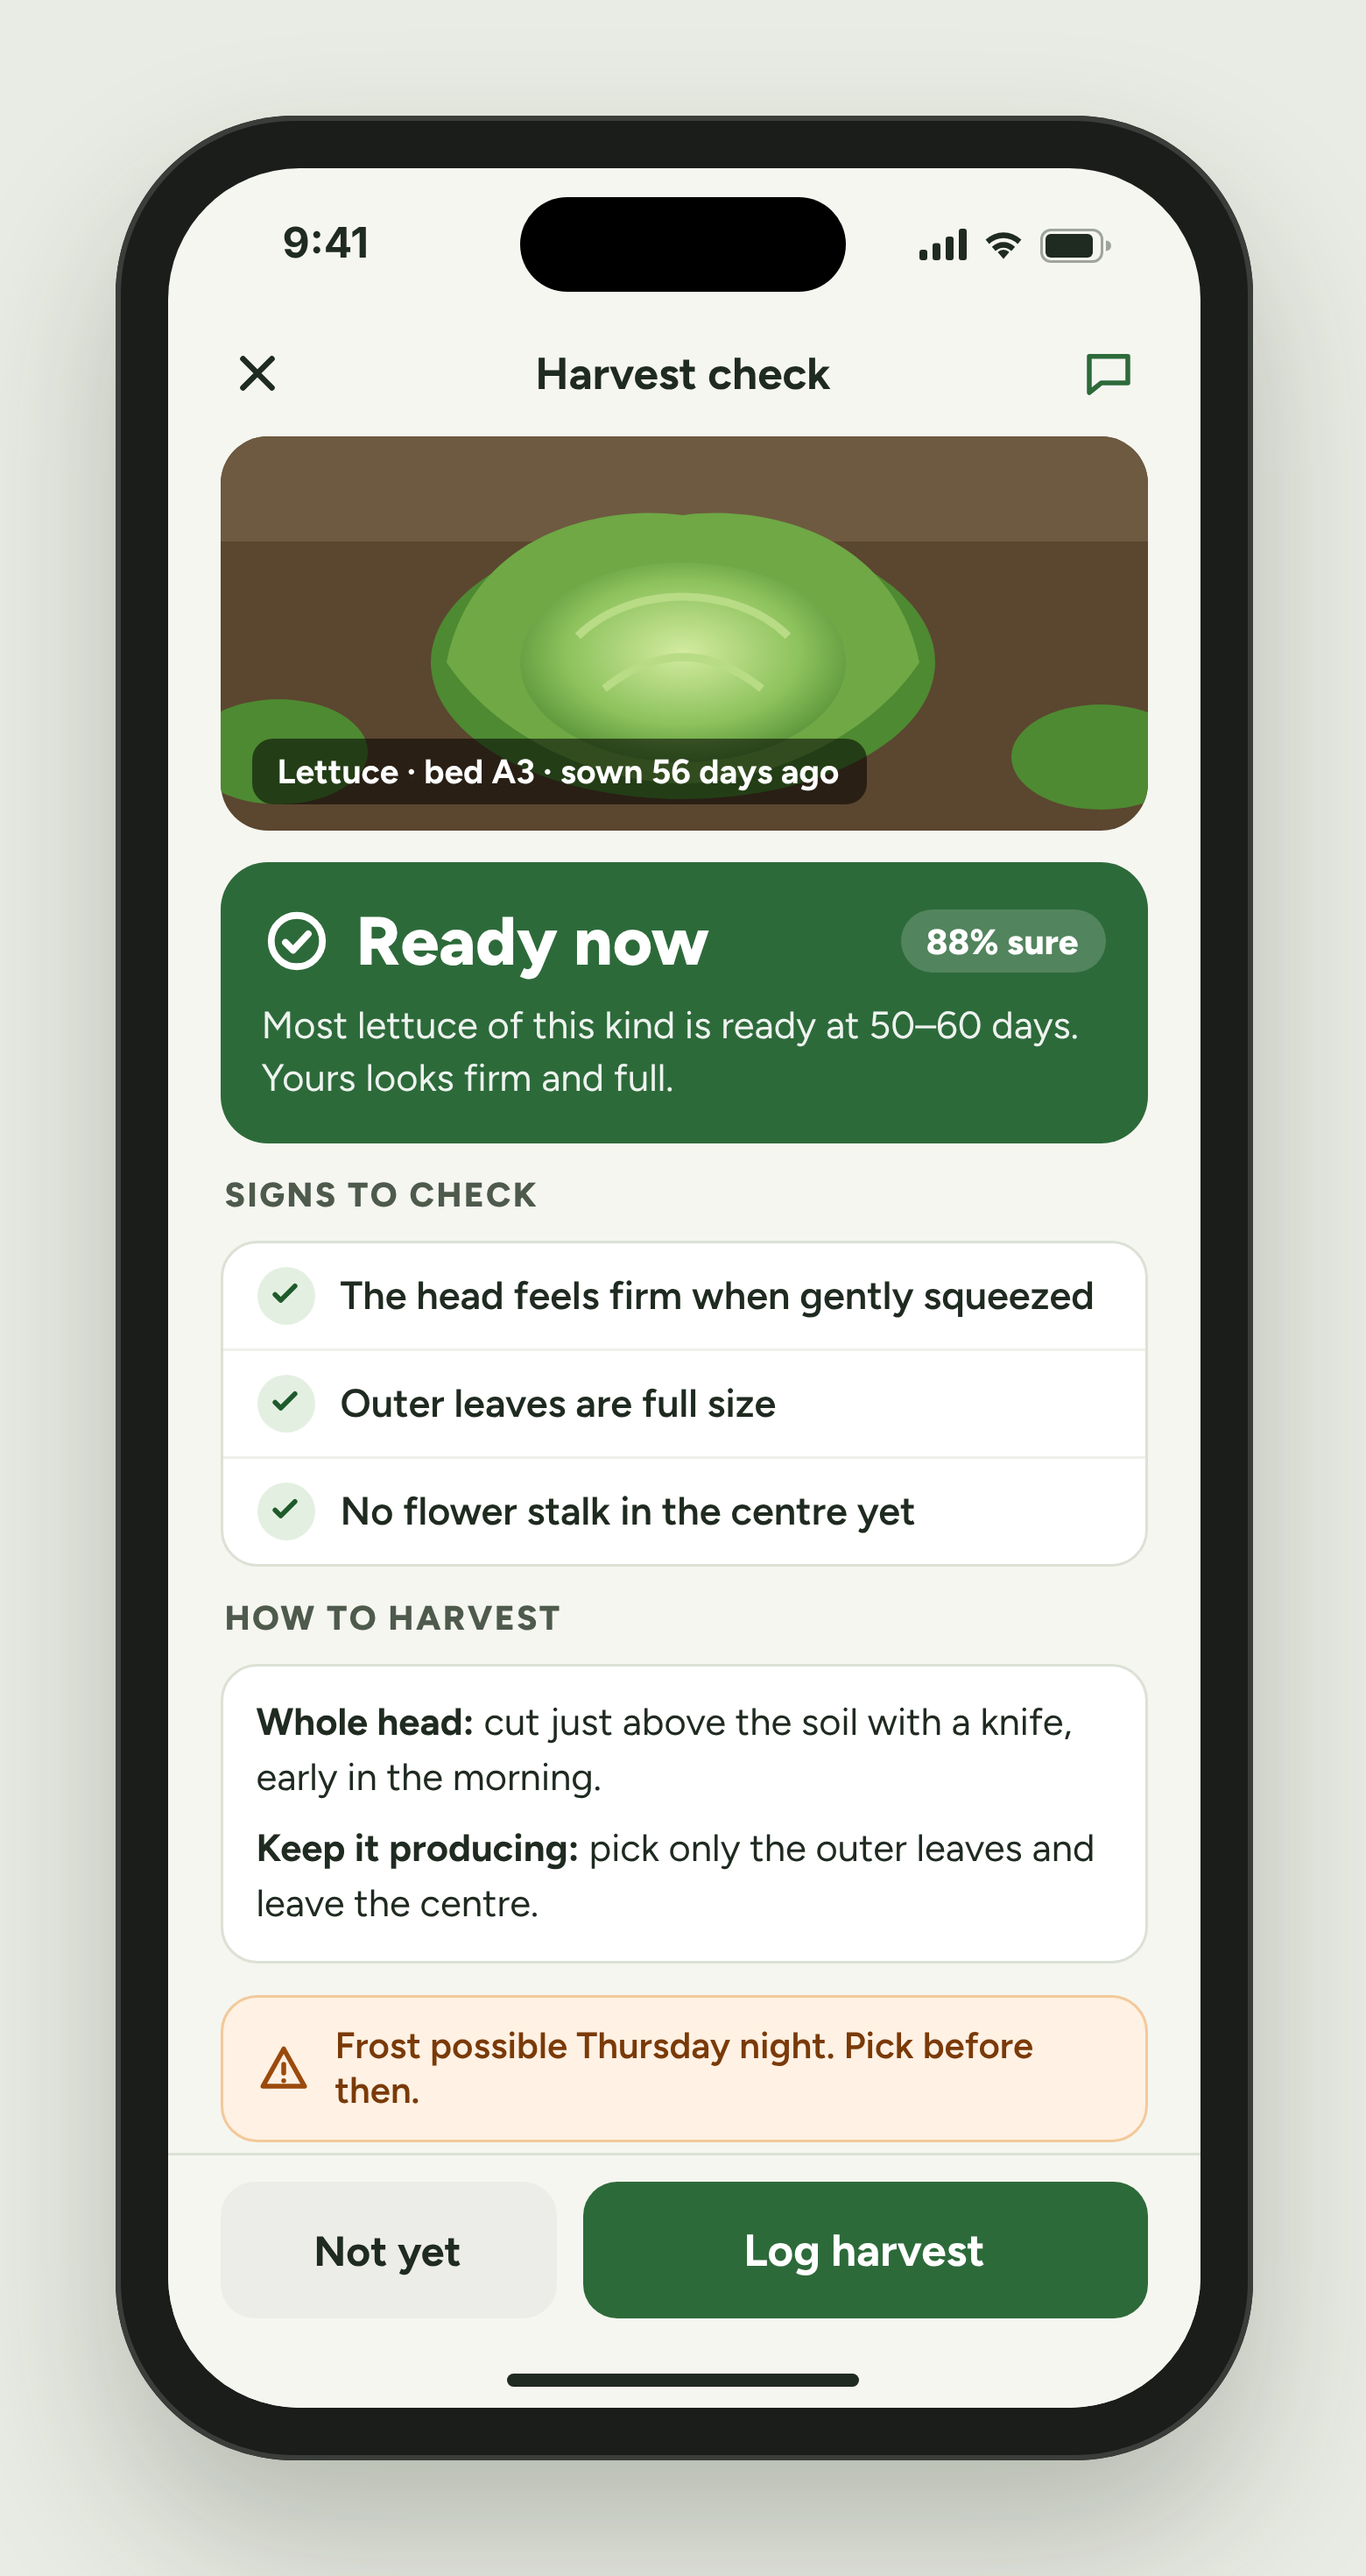
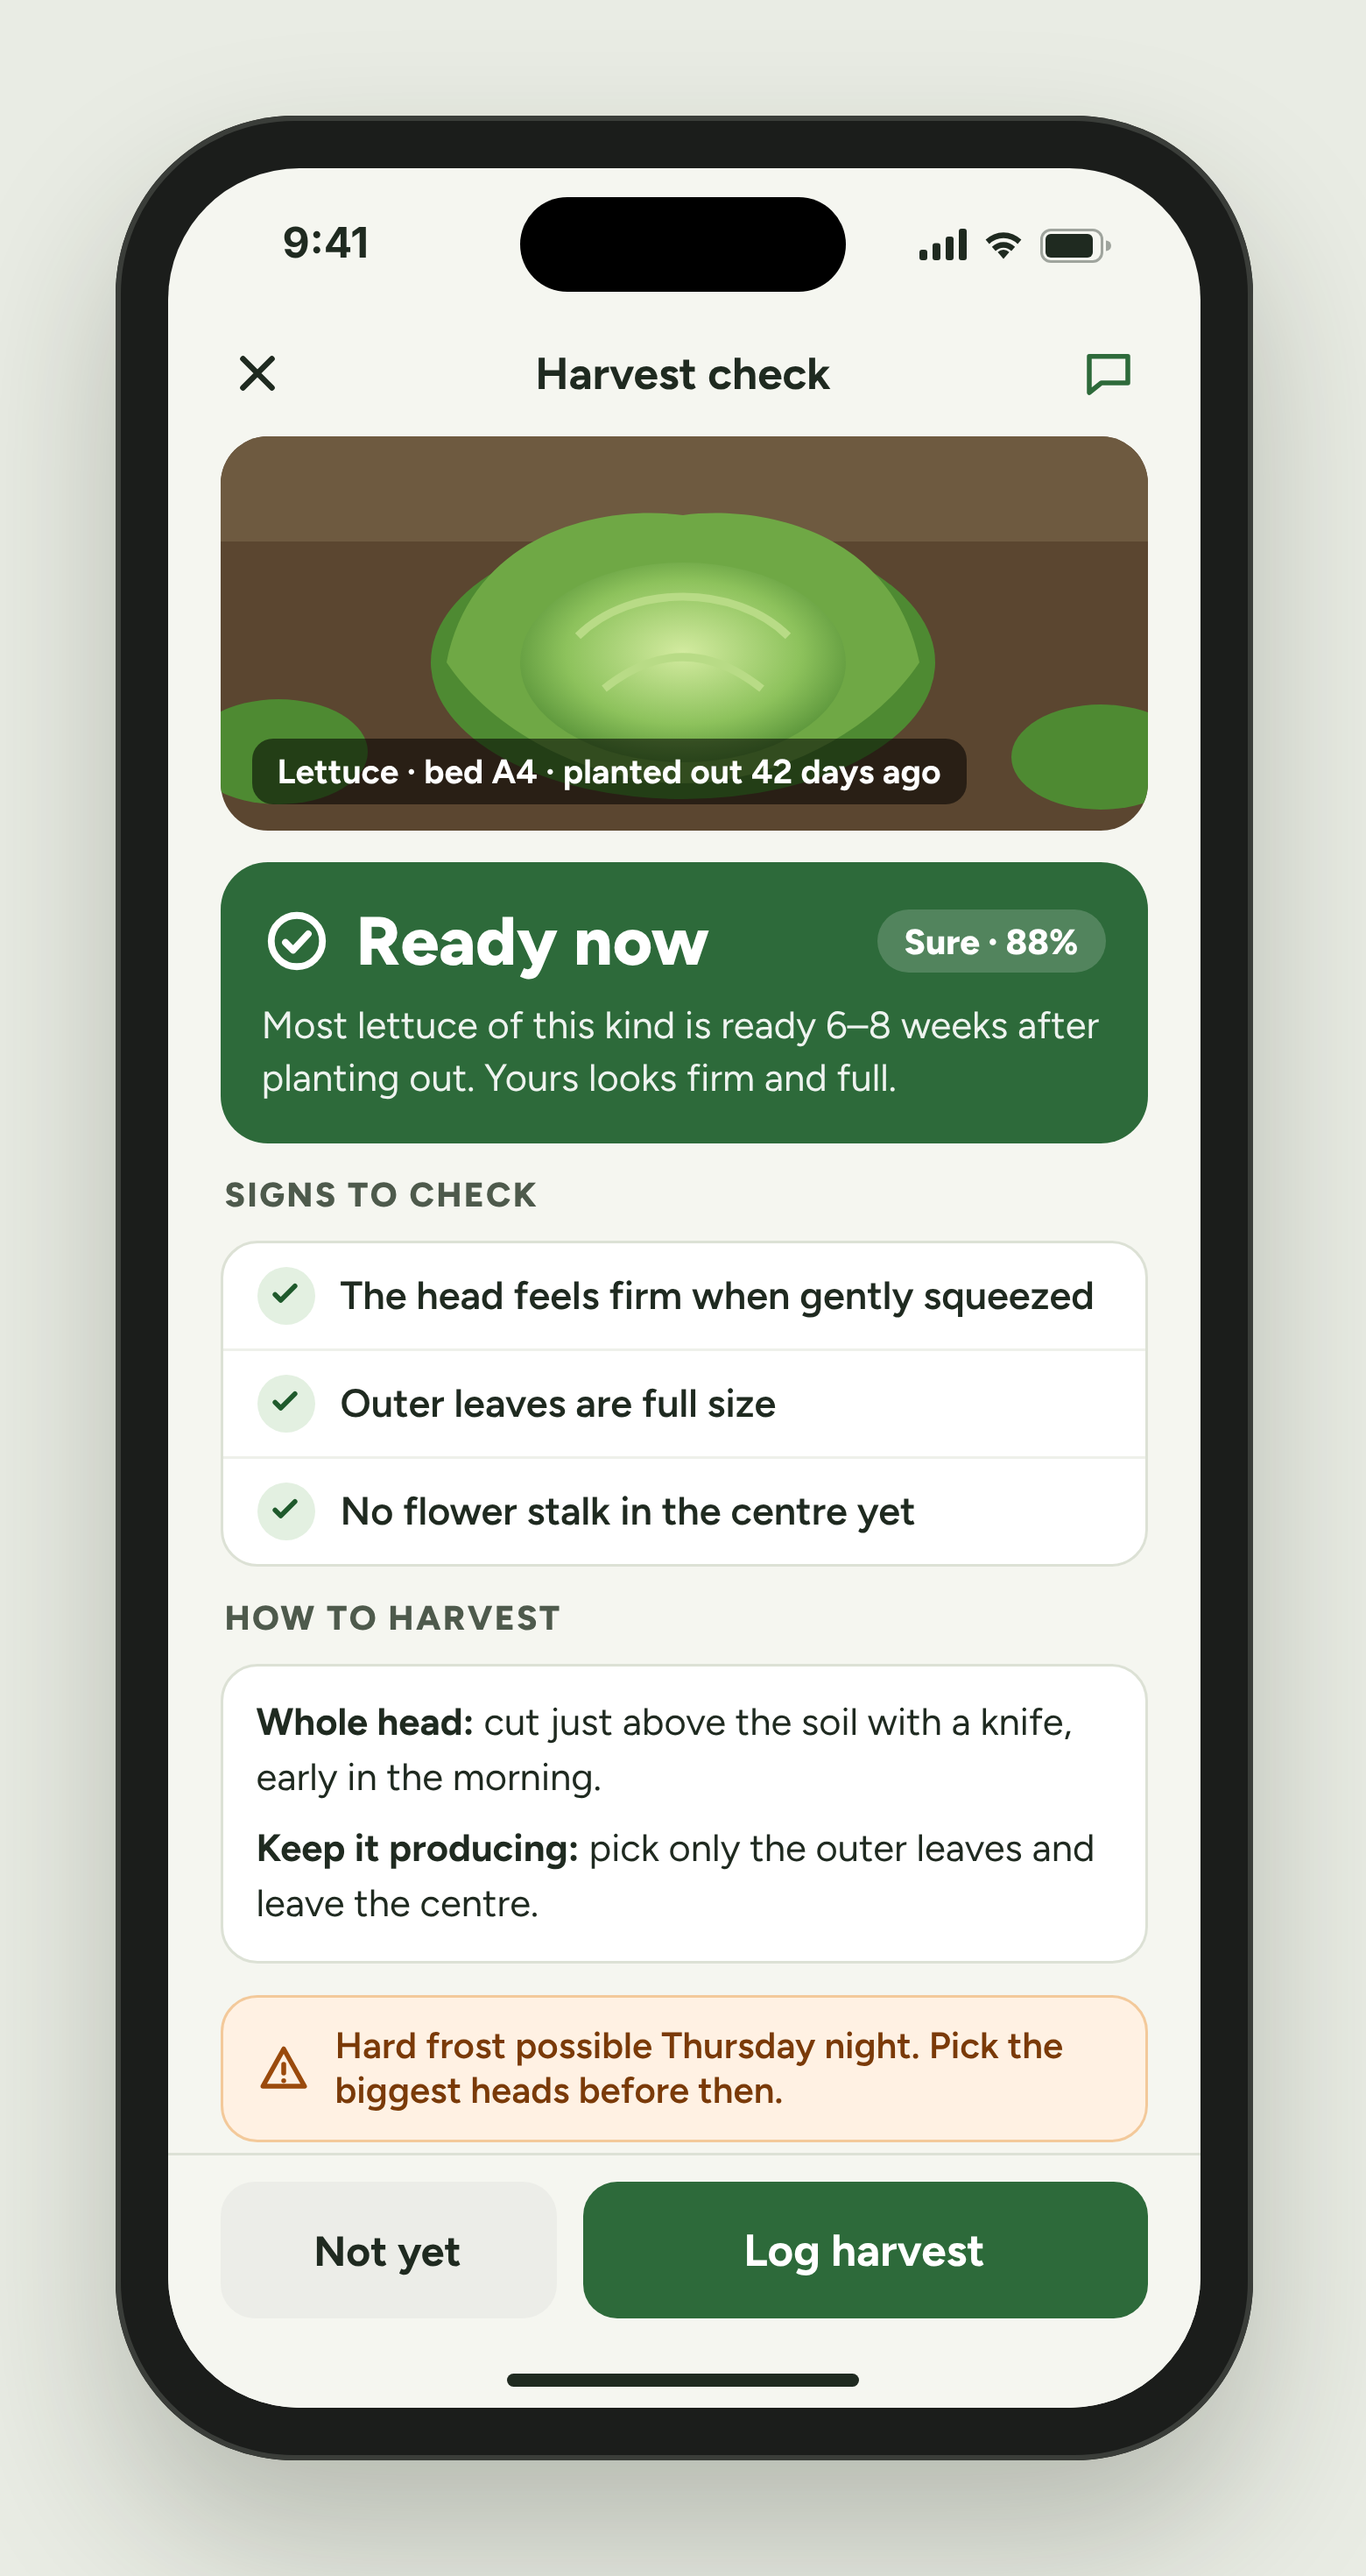
Design D5 harvest check: lettuce in bed A4 (sample set in late November), plain-word confidence
Claude-Session: https://claude.ai/code/session_015NynAjU4naPZwzmeuGazot

diff --git a/design/source/D5-harvest-check.html b/design/source/D5-harvest-check.html
@@ -60,16 +60,16 @@
         </g>
         <g fill="#4E8A32"><ellipse cx="22" cy="120" rx="34" ry="20"/><ellipse cx="335" cy="122" rx="34" ry="20"/></g>
       </svg>
-      <span class="cap">Lettuce · bed A3 · sown 56 days ago</span>
+      <span class="cap">Lettuce · bed A4 · planted out 42 days ago</span>
     </div>
 
     <div class="verdict">
       <div class="top">
         <svg width="26" height="26" viewBox="0 0 24 24" fill="none" stroke="#fff" stroke-width="2.4" stroke-linecap="round" stroke-linejoin="round"><circle cx="12" cy="12" r="9"/><path d="M8 12.5l2.7 2.7L16 9.5"/></svg>
         <h1>Ready now</h1>
-        <span class="pct">88% sure</span>
+        <span class="pct">Sure · 88%</span>
       </div>
-      <p>Most lettuce of this kind is ready at 50–60 days. Yours looks firm and full.</p>
+      <p>Most lettuce of this kind is ready 6–8 weeks after planting out. Yours looks firm and full.</p>
     </div>
 
     <div class="sec">Signs to check</div>
@@ -87,7 +87,7 @@
 
     <div class="warn">
       <svg width="20" height="20" viewBox="0 0 24 24" fill="none" stroke="#9A4A0C" stroke-width="2.2" stroke-linecap="round" stroke-linejoin="round" style="flex:none"><path d="M12 3l9.5 17h-19z"/><path d="M12 10v4M12 17.5v.01"/></svg>
-      Frost possible Thursday night. Pick before then.
+      Hard frost possible Thursday night. Pick the biggest heads before then.
     </div>
   </div>
 
